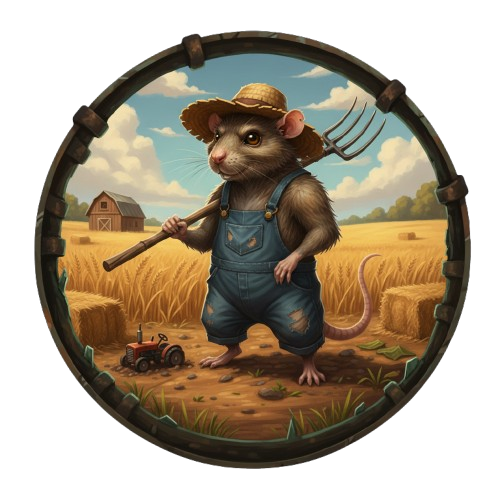
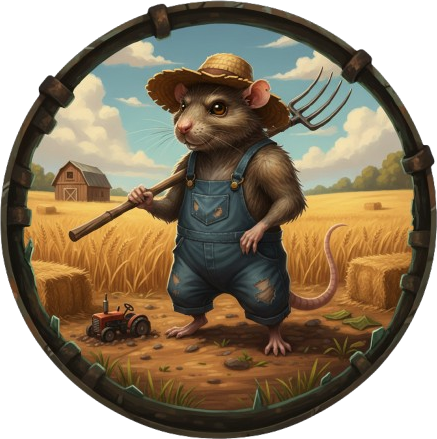
Ajustes na terceira do modal e imagens dos ratos devidamente cortadas.
A terceira pega o nome definido, a habilidade e a descrição da habilidade definidos pelo usuário.

diff --git a/FrontEnd/rinhaRatos/src/components/DetalhesDaClasse.jsx b/FrontEnd/rinhaRatos/src/components/DetalhesDaClasse.jsx
@@ -4,12 +4,12 @@ import MouseCoin from "../assets/moedas/MouseCoin.svg";
 import Input from "../components/Input";
 
 export default function DetalhesDaClasse({ classe, onMostrar, indexClasse }) {
-  let nomeRato; /* Parte que pega da api o nome default do id do rato*/
+  /* let nomeRato; */ /* Parte que pega da api o nome default do id do rato*/
   let descRato;
   let habilidades;
   let descHabilidade;
 
-  nomeRato = "Fedoroso";
+  /* nomeRato = "Fedoroso"; */
   descRato =
     "Sobrevive nas sombras, usando lama e toxinas para corroer defesas; brutal e imprevisível.";
   habilidades = ["Leptospirose", "Nuvem de Lama", "Fedor Corrosivo"];
@@ -19,10 +19,13 @@ export default function DetalhesDaClasse({ classe, onMostrar, indexClasse }) {
     "75% de chance de causar dano direto igual a 8% do HP máximo do alvo (instantâneo). Falha: perde 6% da DEF apenas nesta rodada.",
   ];
 
+  const [nomeRato, setNomeRato] = useState("Fedoroso");
   const [habilAtiva, setHabilAtiva] = useState(0);
 
   const handleBtnHabil = (index) => {
     setHabilAtiva(index - 1);
+    console.log(habilAtiva);
+    console.log(index);
   };
 
   return (
@@ -36,6 +39,7 @@ export default function DetalhesDaClasse({ classe, onMostrar, indexClasse }) {
                 type: "text",
                 placeholder: nomeRato,
                 maxLength: 15,
+                onChange: (e) => setNomeRato(e.target.value),
               }}
             />
             <span className="simboloEditar">🖊</span>
@@ -51,7 +55,9 @@ export default function DetalhesDaClasse({ classe, onMostrar, indexClasse }) {
               key={habilidade}
               onClick={() => handleBtnHabil(index + 1)}
             >
-              Habilidade {index + 1}
+              {habilAtiva == index
+                ? habilidades[index]
+                : `Habilidade ${index + 1}`}
             </button>
           ))}
         </div>
@@ -59,10 +65,13 @@ export default function DetalhesDaClasse({ classe, onMostrar, indexClasse }) {
         <div className="socorro">
           <button
             className="btnFinalizar"
-            onClick={() => onMostrar(imagensRato, classe)}
+            onClick={() =>
+              onMostrar(classe, nomeRato, habilidades, habilAtiva, descHabilidade, )
+            }
           >
             Finalizar
           </button>
+          {/* <button onClick={() => console.log(classe, habilidades, habilAtiva, descHabilidade)}>aaaa</button> */}
           <div className="custo">
             <p>5</p>
             <img src={MouseCoin} />

diff --git a/FrontEnd/rinhaRatos/src/pages/home.jsx b/FrontEnd/rinhaRatos/src/pages/home.jsx
@@ -1,20 +1,24 @@
 import { useState } from "react";
-import Botao from "./Botao";
-import Modal from "./Modal";
+import Botao from "../components/Botao";
+import Modal from "../components/Modal";
 import "../css/Corpo.css";
 
 const ETAPAS = {
   FECHADO: 0,
   SELECAO_CLASSE: 1,
   DETALHES_CLASSE: 2,
-  RATO_CRIADO: 3
+  RATO_CRIADO: 3,
 };
 
 export default function Corpo() {
   const [etapaModal, setEtapaModal] = useState(ETAPAS.FECHADO);
   const [classeSelecionada, setClasseSelecionada] = useState(null);
-  const [indexClasse, setIndexClasse] = useState(null)
-  const [clssRatoCriar, setClssRatoCriar] = useState(null)
+  const [nomeRatoEsc, setNomeRato] = useState(null);
+  const [indexClasse, setIndexClasse] = useState(null);
+  const [clssRatoCriar, setClssRatoCriar] = useState(null);
+  const [listaHabilidades, setListaHabilidades] = useState(null);
+  const [habilEscolhida, setHabilEscolhida] = useState(null);
+  const [descHabilidade, setDescHabilidade] = useState(null);
 
   const mostrarSelecaoClasse = () => {
     setEtapaModal(ETAPAS.SELECAO_CLASSE);
@@ -23,20 +27,34 @@ export default function Corpo() {
   const fecharModal = () => {
     setEtapaModal(ETAPAS.FECHADO);
     setClasseSelecionada(null);
+    setNomeRato(null);
     setIndexClasse(null);
     setClssRatoCriar(null);
+    setListaHabilidades(null);
+    setHabilEscolhida(null);
+    setDescHabilidade(null);
   };
 
   const selecionarClasse = (classe, index) => {
+    setEtapaModal(ETAPAS.DETALHES_CLASSE);
     setClasseSelecionada(classe);
     setIndexClasse(index);
-    setEtapaModal(ETAPAS.DETALHES_CLASSE);
   };
 
-  const mostrarRatoCriado = () => {
+  const mostrarRatoCriado = (
+    classe,
+    nomeRato,
+    habilidades,
+    habilAtiva,
+    descHabilidade
+  ) => {
+    setClssRatoCriar(classe);
+    setNomeRato(nomeRato);
+    setListaHabilidades(habilidades);
+    setHabilEscolhida(habilAtiva);
+    setDescHabilidade(descHabilidade);
     setEtapaModal(ETAPAS.RATO_CRIADO);
-    setClssRatoCriar(clssRatoCriar);
-  }
+  };
 
   return (
     <>
@@ -48,7 +66,11 @@ export default function Corpo() {
           onSlctClasse={selecionarClasse}
           onMostrarRato={mostrarRatoCriado}
           classe={classeSelecionada}
+          nomeRato={nomeRatoEsc}
           indexClasse={indexClasse}
+          habilidades={listaHabilidades}
+          habilEscolhida={habilEscolhida}
+          descHabilidade={descHabilidade}
         />
         <div
           className={`conteudo-principal ${

diff --git a/FrontEnd/rinhaRatos/src/css/Modal.css b/FrontEnd/rinhaRatos/src/css/Modal.css
@@ -63,6 +63,10 @@ button {
     font-family: 'Fondamento', 'fantasy';
 }
 
+button .addRato{
+    border-radius: 20px;
+    background-color: red;
+}
 div {
     user-select: none;
 }
@@ -286,69 +290,66 @@ div {
 
 .infoGeral {
     width:95%;
-    height: 40%;
+    min-height: 42%;
     background-image: url("../assets/backgrounds/displayMadeira2.png");
     background-size: 100% 100%;
     text-align: center;
     display: flex;
     flex-direction: column;
     box-sizing: border-box;
-    margin: 1rem 0rem 2rem 0rem;
+    margin: 1rem 0rem 1rem 0rem;
 }
 
 .conteinerTitusEstHabil{
     width: 100%;
-    height: 100%;
-    padding: 0rem 1rem 0rem 1rem;
+    min-height: 100%;
+    padding: 0rem 1rem;
     display: flex;
-    box-sizing: border-box;
     justify-content: center;
-    align-items: center;
+    align-items: flex-start;
     gap: 0.5rem;
     box-sizing: border-box;
 }
 
 .titusEstHabil{
     width: 100%;
-    height: 20%;
+    min-height: 2.2rem;
     background-image: url("../assets/backgrounds/tabuaLabel.svg");
     background-size: 100% 100%;
-    margin: 0;
+    margin: 0rem 0rem 0.5rem 0rem;
     font-size: 1.2rem;
     display: flex;
     align-items: center;
     justify-content: center;
 }
 
-.caixaEstatisticas {
-    width: 50%;
-    height: 80%;
+.caixaEstatisticas,
+.caixaHabilidadeEsc {
+    width: 20rem;
     display: flex;
-    justify-content: center;
-    align-items: center;
     flex-direction: column;
+    align-items: center;
+    margin-top: 1.2rem;
 }
 
 .caixaHabilidadeEsc{
-    width: 50%;
-    height: 80%;
-    display: flex;
-    justify-content: center;
-    align-items: center;
-    flex-direction: column;
     margin-right: 0.5rem;
+}
+
+.caixaEstatisticas{
+    margin-left: 0.5rem;
 }
 
 .estatisticas{
     background-image: url("../assets/backgrounds/papelLabel2.png");
     background-size: 100% 100%;
     width: 80%;
-    height: 100%;
+    min-height: 8rem;
     margin: 0;
     display: flex;
     text-align: left;
     align-items: center;
-    margin: 1rem 0rem 0rem 0rem;
+    margin: 0rem 0rem 0rem 0rem;
     padding: 0rem 0rem 0rem 1rem;
     box-sizing: border-box;
 }
@@ -363,6 +364,6 @@ div {
     background-image: url("../assets/backgrounds/papelLabel2.png");
     background-size: 100% 100%;
     padding: 1rem 1rem 1rem 1rem;
-    margin: 1rem 0rem 0rem 0rem;
+    margin: 0rem 0rem 0rem 0rem;
     box-sizing: border-box;
 }

diff --git a/FrontEnd/rinhaRatos/src/components/RatoCriado.jsx b/FrontEnd/rinhaRatos/src/components/RatoCriado.jsx
@@ -1,14 +1,13 @@
 import imagensRato from "./ImagensRato";
 import "../css/Modal.css";
-export default function RatoCriado({ indexClasse, onClose }) {
-  let nomeRato;
-  let habilEscolhida;
-  let descHabilEscolhida;
-
-  nomeRato = "Roberto Almeida";
-  habilEscolhida = "Leptospirose";
-  descHabilEscolhida =
-    "80% de chance de reduzir a DEF do alvo em 18% — efeito apenas nesta rodada. Falha: perde 4% do HP.";
+export default function RatoCriado({
+  indexClasse,
+  nomeRato,
+  habilidades,
+  habilEscolhida,
+  descHabilidade,
+  onClose,
+}) {
   return (
     <>
       <div className="titulo">Criação concluída!</div>
@@ -33,12 +32,14 @@ export default function RatoCriado({ indexClasse, onClose }) {
             </p>
           </div>
           <div className="caixaHabilidadeEsc">
-            <p className="titusEstHabil">{habilEscolhida}</p>
-            <p className="descHabilEsc">{descHabilEscolhida}</p>
+            <p className="titusEstHabil">{habilidades[habilEscolhida]}</p>
+            <p className="descHabilEsc">{descHabilidade[habilEscolhida]}</p>
           </div>
         </div>
       </div>
-      <button className="btnFinalizar" onClick={onClose}>Ok</button>
+      <button className="btnFinalizar" onClick={onClose}>
+        Ok
+      </button>
     </>
   );
 }

diff --git a/FrontEnd/rinhaRatos/src/components/Modal.jsx b/FrontEnd/rinhaRatos/src/components/Modal.jsx
@@ -8,9 +8,13 @@ export default function Modal({
   etapas,
   onClose,
   onSlctClasse,
-  onMostrarRato,
   classe,
   indexClasse,
+  onMostrarRato,
+  nomeRato,
+  habilidades,
+  habilEscolhida,
+  descHabilidade,
 }) {
   if (etapa === etapas.FECHADO) {
     return null;
@@ -24,11 +28,24 @@ export default function Modal({
       break;
     case etapas.DETALHES_CLASSE:
       conteudoModal = (
-        <DetalhesDaClasse classe={classe} onMostrar={onMostrarRato} indexClasse={indexClasse} />
+        <DetalhesDaClasse
+          classe={classe}
+          indexClasse={indexClasse}
+          onMostrar={onMostrarRato}
+        />
       );
       break;
     case etapas.RATO_CRIADO:
-      conteudoModal = <RatoCriado indexClasse={indexClasse} onClose={onClose}/>;
+      conteudoModal = (
+        <RatoCriado
+          indexClasse={indexClasse}
+          onClose={onClose}
+          nomeRato={nomeRato}
+          habilidades={habilidades}
+          habilEscolhida={habilEscolhida}
+          descHabilidade={descHabilidade}
+        />
+      );
       break;
     default:
       conteudoModal = null;

diff --git a/FrontEnd/rinhaRatos/src/pages/Inicio.jsx b/FrontEnd/rinhaRatos/src/pages/Inicio.jsx
@@ -1,5 +1,5 @@
 import Header from "../components/Header";
-import Corpo from "../components/Corpo";
+import Corpo from "./home";
 
 export default function Inicio() {
   return (
